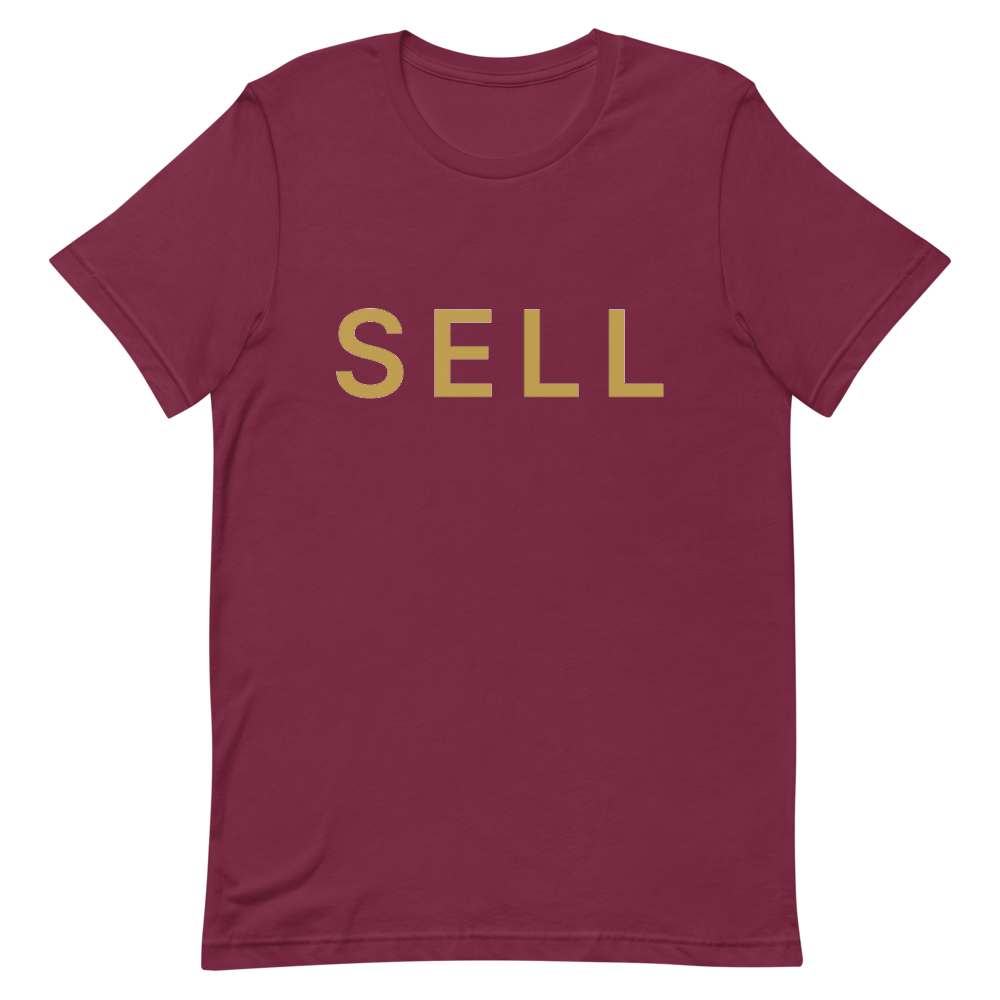
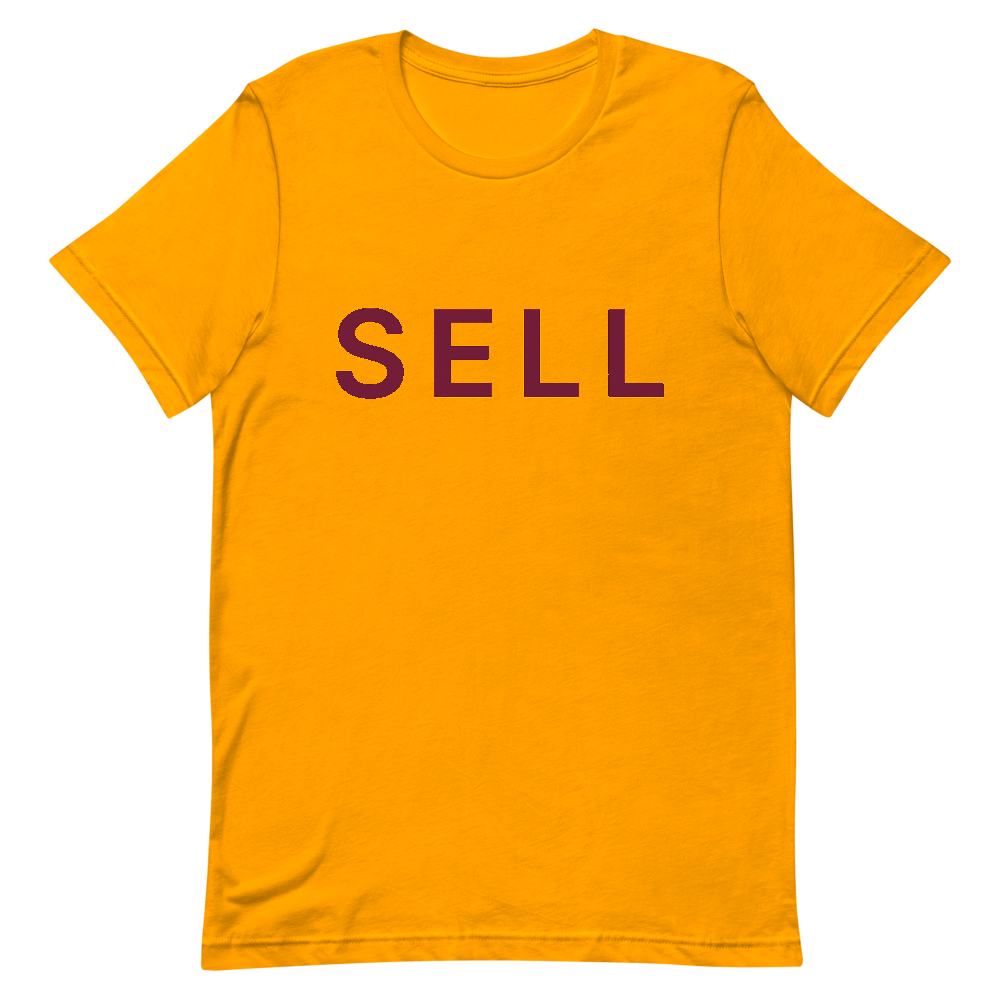
Change Washington shirt to gold with maroon ink

diff --git a/lib/teams.ts b/lib/teams.ts
@@ -162,7 +162,7 @@ const ROWS: Row[] = [
   ["nfl-dallas", "nfc-east", "Dallas", "Cowboys", "DALLAS", "Navy", "Navy"],
   ["nfl-new-york-blue", "nfc-east", "New York", "Giants", "NEW YORK", "True Royal", "Royal"],
   ["nfl-philadelphia", "nfc-east", "Philadelphia", "Eagles", "PHILADELPHIA", "Forest", "Forest Green"],
-  ["nfl-washington", "nfc-east", "Washington", "Commanders", "WASHINGTON", "Maroon", "Maroon"],
+  ["nfl-washington", "nfc-east", "Washington", "Commanders", "WASHINGTON", "Gold", "Maroon"],
   // NFC North
   ["nfl-chicago", "nfc-north", "Chicago", "Bears", "CHICAGO", "Navy", "Navy"],
   ["nfl-detroit", "nfc-north", "Detroit", "Lions", "DETROIT", "Aqua", "Royal"],

diff --git a/lib/products.ts b/lib/products.ts
@@ -80,7 +80,7 @@ const TEE_PRINT_OVERRIDES: Record<string, { name: string; hex: string }> = {
   "nfl-dallas": { name: "silver", hex: "#C0C0C0" },
   "nfl-dallas-alternate-one": { name: "red", hex: "#D0071E" },
   "nfl-philadelphia-alternate-one": { name: "pink", hex: "#FF1493" },
-  "nfl-washington": { name: "gold", hex: "#C5A253" },
+  "nfl-washington": { name: "maroon", hex: "#721D37" },
   "nfl-houston": { name: "battle red", hex: "#C8102E" },
   "nfl-houston-alternate-one": { name: "deep steel blue", hex: "#03202F" },
   "nfl-jacksonville": { name: "gold", hex: "#C5A253" },

diff --git a/lib/art.ts b/lib/art.ts
@@ -1,5 +1,5 @@
 // Bump when the shirt artwork or photos change: Printful caches print files by
 // URL and next/image caches optimized photos by URL, so a new number makes
 // both fetch fresh copies.
-export const ART_VERSION = 35;
+export const ART_VERSION = 36;
 
